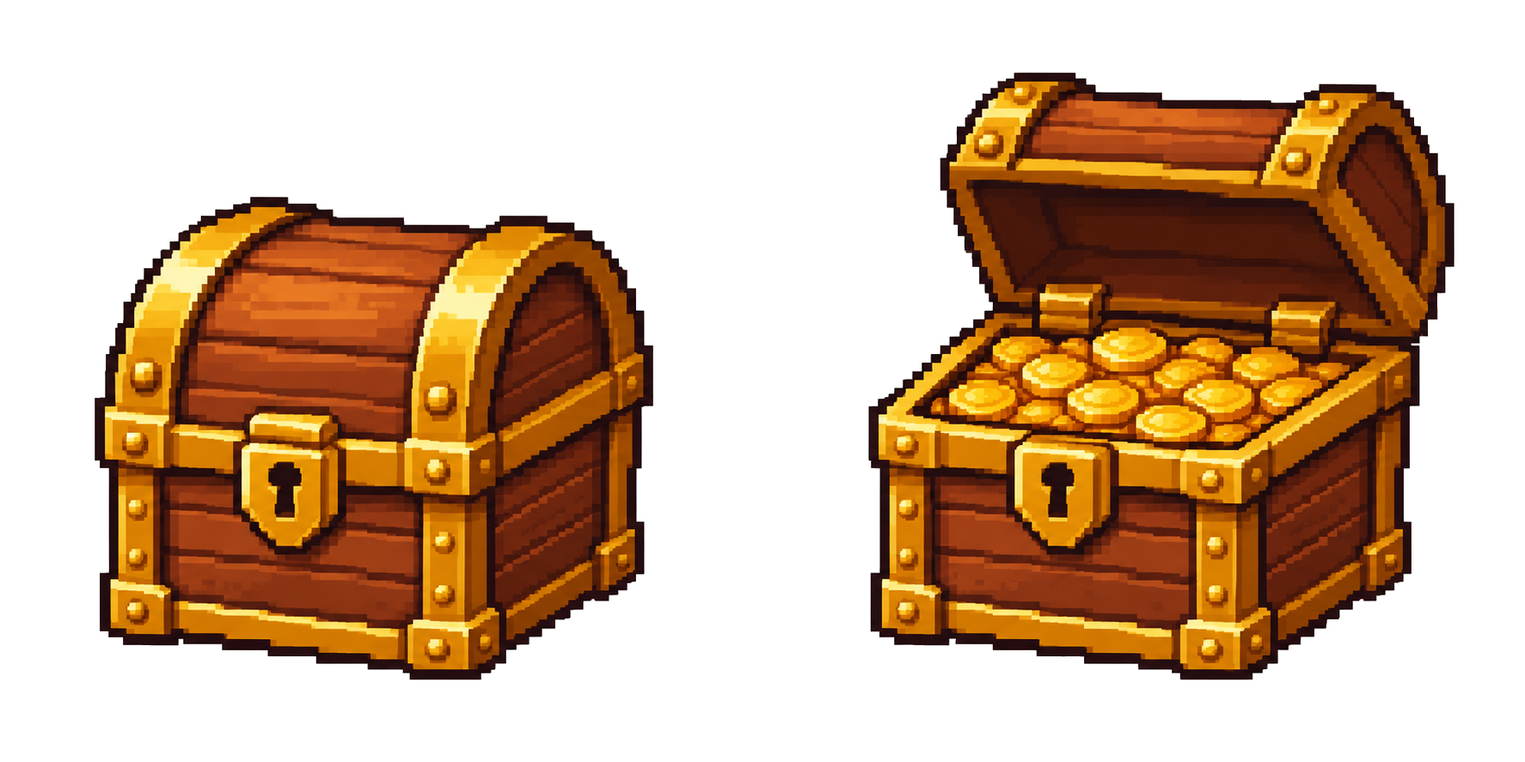
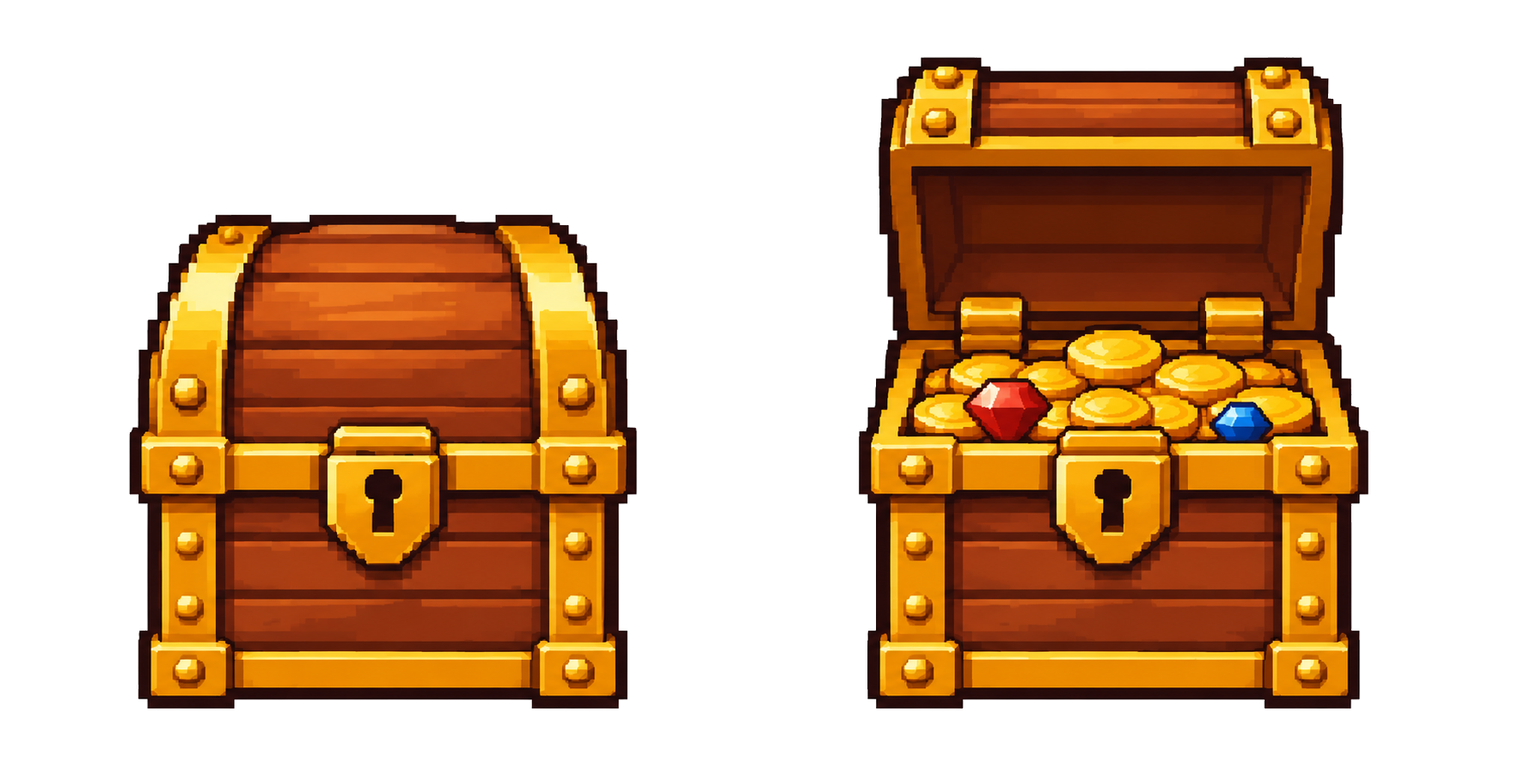
口袋地城：寶箱改為正面視角（關閉與打開）

diff --git a/games/pocketdungeon/src/js/pd/propSprites.js b/games/pocketdungeon/src/js/pd/propSprites.js
@@ -12,4 +12,4 @@ import { unpack } from './spritePack.js';
  */
 export const PROP_SPRITES = {};
 
-unpack(PROP_SPRITES, {"barrel":{"palette":{"a":"#562215","b":"#373641","c":"#753116","d":"#4b4b57","e":"#5a5c69","f":"#9c4a1b","g":"#696a76","h":"#b95e23","i":"#d1752c","j":"#93949e","k":"#e38937","l":"#a7a8ae","m":"#f8a244","n":"#b7b7bc","o":"#1a1020"},"w":22,"h":28,"foot":0,"gray":false,"frames":[{"x":0,"y":0,"$r":[304,0,21,28]}]},"crates":{"palette":{"a":"#362a26","b":"#522417","c":"#3a393c","d":"#6c301a","e":"#4b494a","f":"#95451e","g":"#646365","h":"#ad5522","i":"#c16527","j":"#8c8c8c","k":"#d98033","l":"#eb9a40","m":"#c8c5be","n":"#fccf6a","o":"#1a1020"},"w":28,"h":36,"foot":0,"gray":false,"frames":[{"x":1,"y":0,"$r":[142,0,27,36]}]},"boulder":{"palette":{"a":"#575757","b":"#686868","c":"#757575","d":"#a8a8a8","e":"#b6b6b6","f":"#c4c4c4","g":"#d6d6d6","h":"#e7e7e7","i":"#f2f2f2","o":"#1a1020"},"w":30,"h":26,"foot":0,"gray":true,"frames":[{"x":0,"y":0,"$r":[354,0,29,26]}]},"statue":{"palette":{"a":"#8d8d8d","b":"#989898","c":"#a0a0a0","d":"#b0b0b0","e":"#bdbdbd","f":"#cccccc","g":"#d7d7d7","h":"#e1e1e1","i":"#eaeaea","j":"#f1f1f1","o":"#1a1020"},"w":18,"h":46,"foot":0,"gray":true,"frames":[{"x":0,"y":0,"$r":[97,0,15,46]}]},"trophy":{"palette":{"a":"#591e13","b":"#363e51","c":"#8e2719","d":"#bb211e","e":"#aa641c","f":"#717382","g":"#fa4139","h":"#a66c54","i":"#ce8c20","j":"#9898a4","k":"#edb12f","l":"#b5b4be","m":"#fce27d","n":"#feefa4","p":"#eeeeed","o":"#1a1020"},"w":36,"h":30,"foot":0,"gray":false,"frames":[{"x":1,"y":0,"$r":[236,0,34,30]}]},"skulls":{"palette":{"a":"#3a2d28","b":"#483832","c":"#59463e","d":"#634e46","e":"#745d53","f":"#856d61","g":"#977d6e","h":"#9f8575","i":"#ab9382","j":"#b89f8b","k":"#c9af9a","l":"#d6bca7","m":"#dec7b1","n":"#e5d1bb","p":"#f0dec8","o":"#1a1020"},"w":24,"h":22,"foot":0,"gray":false,"frames":[{"x":0,"y":0,"$r":[437,0,23,22]}]},"banner":{"palette":{"a":"#845311","b":"#ab6e13","c":"#7a7a7a","d":"#c99120","e":"#a19d9b","f":"#f1b532","g":"#c1b9b4","h":"#e2dacf","i":"#fce183","o":"#1a1020"},"w":26,"h":22,"foot":0,"gray":true,"frames":[{"x":1,"y":0,"$r":[461,0,24,22]}]},"torch":{"palette":{"a":"#5a2c1c","b":"#3f3c42","c":"#583437","d":"#4d4a50","e":"#7f4326","f":"#57545a","g":"#8a4e2b","h":"#6e6c70","i":"#b16b3a","j":"#848183","k":"#989698","l":"#b1b0b0","o":"#1a1020"},"w":14,"h":20,"foot":0,"gray":false,"frames":[{"x":0,"y":0,"$r":[576,0,13,20]}]},"bone":{"palette":{"a":"#83685e","b":"#856a60","c":"#896e62","d":"#a48a79","e":"#ae9480","f":"#b39984","g":"#b49b86","h":"#e4cdaf","i":"#e5ceb0","j":"#f4e1c3","k":"#fdeecf","l":"#fef0d2","o":"#1a1020"},"w":20,"h":8,"foot":0,"gray":false,"frames":[{"x":1,"y":1,"$r":[727,0,19,7]}]},"rubble":{"palette":{"a":"#919191","b":"#969696","c":"#a0a0a0","d":"#b0b0b0","e":"#bbbbbb","f":"#cbcbcb","g":"#d3d3d3","h":"#dddddd","i":"#eaeaea","j":"#f3f3f3","o":"#1a1020"},"w":16,"h":12,"foot":0,"gray":true,"frames":[{"x":1,"y":0,"$r":[712,0,14,12]}]},"stairs":{"palette":{"a":"#8d8d8d","b":"#9c9c9c","c":"#a8a8a8","d":"#b5b5b5","e":"#c0c0c0","f":"#cacaca","g":"#d7d7d7","h":"#e1e1e1","i":"#ededed","j":"#f5f5f5","o":"#1a1020"},"w":32,"h":32,"foot":0,"gray":true,"frames":[{"x":0,"y":0,"$r":[170,0,32,32]}]},"spikes":{"palette":{"a":"#313130","b":"#444443","c":"#4e4e4e","d":"#585857","e":"#616161","f":"#6f6f6f","g":"#808080","h":"#8e8e8e","i":"#9d9d9d","j":"#a8a8a8","k":"#bababa","l":"#cecdce","m":"#dcdcdc","n":"#eaeaea","o":"#1a1020"},"w":34,"h":30,"foot":1,"gray":false,"frames":[{"x":1,"y":5,"$r":[404,0,32,24]},{"x":1,"y":0,"$r":[271,0,32,29]}]},"chest":{"palette":{"a":"#5c200c","b":"#85350b","c":"#9c430b","d":"#bb4f1a","e":"#86663e","f":"#b65e02","g":"#da6b1f","h":"#d57b02","i":"#e48f06","j":"#f4a90b","k":"#dfad3e","l":"#fabf20","m":"#fad141","n":"#fbe777","p":"#fdf4aa","o":"#1a1020"},"w":30,"h":30,"foot":1,"gray":false,"frames":[{"x":2,"y":7,"$r":[486,0,25,22]},{"x":3,"y":1,"$r":[326,0,27,28]}]},"weaponRack":{"palette":{"a":"#56270f","b":"#444047","c":"#743210","d":"#8a3e14","e":"#5a5a63","f":"#a44d17","g":"#717179","h":"#bf5e1b","i":"#8c8b93","j":"#a2838a","k":"#e07b29","l":"#f38f35","m":"#fb9f45","n":"#b2b1b5","p":"#c4c4c7","o":"#1a1020"},"w":20,"h":26,"foot":0,"gray":false,"frames":[{"x":1,"y":0,"$r":[384,0,19,26]}]},"wallShield":{"palette":{"a":"#5f1e18","b":"#3c3c44","c":"#892d1f","d":"#5b5a62","e":"#ac422c","f":"#797377","g":"#d26648","h":"#e67b5a","i":"#a19790","j":"#bd956c","k":"#fba07c","l":"#c6b5aa","m":"#dcb484","n":"#fde3ba","p":"#fef2d5","o":"#1a1020"},"w":20,"h":18,"foot":0,"gray":false,"frames":[{"x":1,"y":0,"$r":[608,0,18,18]}]},"chains":{"palette":{"a":"#35353b","b":"#3e3e43","c":"#4d4c50","d":"#575559","e":"#636163","f":"#767070","g":"#92827a","h":"#9f9591","i":"#b0a49d","j":"#b6ada9","k":"#d1b9a8","l":"#c8bdb7","m":"#e5c8af","n":"#e2d1c4","o":"#1a1020"},"w":18,"h":18,"foot":0,"gray":false,"frames":[{"x":2,"y":0,"$r":[627,0,15,18]}]},"cobweb":{"palette":{"a":"#5d5d5d","b":"#767676","c":"#7f7f7f","d":"#949494","e":"#ababab","f":"#b2b2b2","g":"#d9d9d9","h":"#dfdfdf","i":"#fdfdfd","o":"#1a1020"},"w":18,"h":16,"foot":0,"gray":true,"frames":[{"x":1,"y":0,"$r":[662,0,16,16]}]},"brazier":{"palette":{"a":"#362b34","b":"#77161a","c":"#b50509","d":"#4a3e48","e":"#603741","f":"#ad2b23","g":"#c7291f","h":"#65575d","i":"#79676d","j":"#fc4515","k":"#987f82","l":"#b0948d","m":"#deb29c","n":"#f8c99f","o":"#1a1020"},"w":18,"h":20,"foot":0,"gray":false,"frames":[{"x":0,"y":0,"$r":[590,0,17,20]}]},"urns":{"palette":{"a":"#652415","b":"#7c2f18","c":"#893419","d":"#9b3f1c","e":"#b74f20","f":"#b45f28","g":"#c55f24","h":"#dd742c","i":"#e48733","j":"#ed943e","k":"#f5a64b","l":"#fab358","m":"#fcc268","n":"#fce294","o":"#1a1020"},"w":20,"h":18,"foot":0,"gray":false,"frames":[{"x":1,"y":0,"$r":[643,0,18,18]}]},"sacks":{"palette":{"a":"#562d16","b":"#623217","c":"#743b18","d":"#7f4823","e":"#964d1b","f":"#975829","g":"#a6591e","h":"#af6c32","i":"#cd8940","j":"#d79548","k":"#df9c4c","l":"#fbc368","m":"#fccf7d","n":"#fdd892","o":"#1a1020"},"w":18,"h":16,"foot":0,"gray":false,"frames":[{"x":0,"y":0,"$r":[679,0,17,16]}]},"rug":{"palette":{"a":"#850613","b":"#a40614","c":"#902a05","d":"#c30d18","e":"#b84c06","f":"#ce6107","g":"#ee8d0e","h":"#dea47c","i":"#f9a823","j":"#f9a35d","k":"#fbc341","l":"#fddca4","m":"#fded73","n":"#fde9b9","o":"#1a1020"},"w":44,"h":22,"foot":0,"gray":false,"frames":[{"x":0,"y":0,"$r":[512,0,44,22]}]},"pillarStump":{"palette":{"a":"#3b3b3b","b":"#4b4b4b","c":"#616161","d":"#7a7a7a","e":"#9c9c9c","f":"#aeaeae","g":"#d5d5d5","h":"#e1e1e1","i":"#f1f1f1","o":"#1a1020"},"w":20,"h":22,"foot":0,"gray":true,"frames":[{"x":1,"y":0,"$r":[557,0,18,22]}]},"candles":{"palette":{"a":"#58250f","b":"#693c1d","c":"#b1773f","d":"#cc7c12","e":"#c28648","f":"#e28f13","g":"#d89955","h":"#fba51d","i":"#e8ab62","j":"#fcce83","k":"#fedf9a","l":"#feea72","m":"#fcecb6","n":"#fcf5cf","o":"#1a1020"},"w":16,"h":18,"foot":1,"gray":false,"frames":[{"x":1,"y":1,"$r":[697,0,14,16]}]},"archway":{"palette":{"a":"#383838","b":"#4f4f4e","c":"#696868","d":"#7f7e7e","e":"#939292","f":"#a7a6a7","g":"#bfbebf","h":"#d5d5d5","i":"#f1f1f2","o":"#1a1020"},"w":98,"h":100,"foot":0,"gray":true,"frames":[{"x":1,"y":1,"$r":[0,0,96,99]}]},"steps":{"palette":{"a":"#333333","b":"#3d3d3d","c":"#4e4e4e","d":"#636363","e":"#727272","f":"#8b8b8b","g":"#a4a4a4","h":"#b2b2b2","i":"#c9c9c9","o":"#1a1020"},"w":32,"h":32,"foot":0,"gray":true,"frames":[{"x":0,"y":0,"$r":[203,0,32,32]}]},"ironGate":{"palette":{"a":"#303030","b":"#404040","c":"#585858","d":"#696969","e":"#848484","f":"#909090","g":"#b1b1b1","h":"#bebebe","o":"#1a1020"},"w":28,"h":40,"foot":0,"gray":true,"frames":[{"x":0,"y":1,"$r":[113,0,28,39]}]}}, new URL('./propSprites.png', import.meta.url));
+unpack(PROP_SPRITES, {"barrel":{"palette":{"a":"#562215","b":"#373641","c":"#753116","d":"#4b4b57","e":"#5a5c69","f":"#9c4a1b","g":"#696a76","h":"#b95e23","i":"#d1752c","j":"#93949e","k":"#e38937","l":"#a7a8ae","m":"#f8a244","n":"#b7b7bc","o":"#1a1020"},"w":22,"h":28,"foot":0,"gray":false,"frames":[{"x":0,"y":0,"$r":[328,0,21,28]}]},"crates":{"palette":{"a":"#362a26","b":"#522417","c":"#3a393c","d":"#6c301a","e":"#4b494a","f":"#95451e","g":"#646365","h":"#ad5522","i":"#c16527","j":"#8c8c8c","k":"#d98033","l":"#eb9a40","m":"#c8c5be","n":"#fccf6a","o":"#1a1020"},"w":28,"h":36,"foot":0,"gray":false,"frames":[{"x":1,"y":0,"$r":[142,0,27,36]}]},"boulder":{"palette":{"a":"#575757","b":"#686868","c":"#757575","d":"#a8a8a8","e":"#b6b6b6","f":"#c4c4c4","g":"#d6d6d6","h":"#e7e7e7","i":"#f2f2f2","o":"#1a1020"},"w":30,"h":26,"foot":0,"gray":true,"frames":[{"x":0,"y":0,"$r":[350,0,29,26]}]},"statue":{"palette":{"a":"#8d8d8d","b":"#989898","c":"#a0a0a0","d":"#b0b0b0","e":"#bdbdbd","f":"#cccccc","g":"#d7d7d7","h":"#e1e1e1","i":"#eaeaea","j":"#f1f1f1","o":"#1a1020"},"w":18,"h":46,"foot":0,"gray":true,"frames":[{"x":0,"y":0,"$r":[97,0,15,46]}]},"trophy":{"palette":{"a":"#591e13","b":"#363e51","c":"#8e2719","d":"#bb211e","e":"#aa641c","f":"#717382","g":"#fa4139","h":"#a66c54","i":"#ce8c20","j":"#9898a4","k":"#edb12f","l":"#b5b4be","m":"#fce27d","n":"#feefa4","p":"#eeeeed","o":"#1a1020"},"w":36,"h":30,"foot":0,"gray":false,"frames":[{"x":1,"y":0,"$r":[236,0,34,30]}]},"skulls":{"palette":{"a":"#3a2d28","b":"#483832","c":"#59463e","d":"#634e46","e":"#745d53","f":"#856d61","g":"#977d6e","h":"#9f8575","i":"#ab9382","j":"#b89f8b","k":"#c9af9a","l":"#d6bca7","m":"#dec7b1","n":"#e5d1bb","p":"#f0dec8","o":"#1a1020"},"w":24,"h":22,"foot":0,"gray":false,"frames":[{"x":0,"y":0,"$r":[433,0,23,22]}]},"banner":{"palette":{"a":"#845311","b":"#ab6e13","c":"#7a7a7a","d":"#c99120","e":"#a19d9b","f":"#f1b532","g":"#c1b9b4","h":"#e2dacf","i":"#fce183","o":"#1a1020"},"w":26,"h":22,"foot":0,"gray":true,"frames":[{"x":1,"y":0,"$r":[457,0,24,22]}]},"torch":{"palette":{"a":"#5a2c1c","b":"#3f3c42","c":"#583437","d":"#4d4a50","e":"#7f4326","f":"#57545a","g":"#8a4e2b","h":"#6e6c70","i":"#b16b3a","j":"#848183","k":"#989698","l":"#b1b0b0","o":"#1a1020"},"w":14,"h":20,"foot":0,"gray":false,"frames":[{"x":0,"y":0,"$r":[570,0,13,20]}]},"bone":{"palette":{"a":"#83685e","b":"#856a60","c":"#896e62","d":"#a48a79","e":"#ae9480","f":"#b39984","g":"#b49b86","h":"#e4cdaf","i":"#e5ceb0","j":"#f4e1c3","k":"#fdeecf","l":"#fef0d2","o":"#1a1020"},"w":20,"h":8,"foot":0,"gray":false,"frames":[{"x":1,"y":1,"$r":[721,0,19,7]}]},"rubble":{"palette":{"a":"#919191","b":"#969696","c":"#a0a0a0","d":"#b0b0b0","e":"#bbbbbb","f":"#cbcbcb","g":"#d3d3d3","h":"#dddddd","i":"#eaeaea","j":"#f3f3f3","o":"#1a1020"},"w":16,"h":12,"foot":0,"gray":true,"frames":[{"x":1,"y":0,"$r":[706,0,14,12]}]},"stairs":{"palette":{"a":"#8d8d8d","b":"#9c9c9c","c":"#a8a8a8","d":"#b5b5b5","e":"#c0c0c0","f":"#cacaca","g":"#d7d7d7","h":"#e1e1e1","i":"#ededed","j":"#f5f5f5","o":"#1a1020"},"w":32,"h":32,"foot":0,"gray":true,"frames":[{"x":0,"y":0,"$r":[170,0,32,32]}]},"spikes":{"palette":{"a":"#313130","b":"#444443","c":"#4e4e4e","d":"#585857","e":"#616161","f":"#6f6f6f","g":"#808080","h":"#8e8e8e","i":"#9d9d9d","j":"#a8a8a8","k":"#bababa","l":"#cecdce","m":"#dcdcdc","n":"#eaeaea","o":"#1a1020"},"w":34,"h":30,"foot":1,"gray":false,"frames":[{"x":1,"y":5,"$r":[400,0,32,24]},{"x":1,"y":0,"$r":[271,0,32,29]}]},"chest":{"palette":{"a":"#043491","b":"#631f09","c":"#b11709","d":"#0253c6","e":"#99370f","f":"#b9510a","g":"#25926c","h":"#a1741b","i":"#f64b28","j":"#d96717","k":"#ec8e02","l":"#f89876","m":"#fbc520","n":"#fde162","p":"#fdf19c","o":"#1a1020"},"w":26,"h":30,"foot":0,"gray":false,"frames":[{"x":2,"y":8,"$r":[482,0,23,22]},{"x":1,"y":1,"$r":[304,0,23,29]}]},"weaponRack":{"palette":{"a":"#56270f","b":"#444047","c":"#743210","d":"#8a3e14","e":"#5a5a63","f":"#a44d17","g":"#717179","h":"#bf5e1b","i":"#8c8b93","j":"#a2838a","k":"#e07b29","l":"#f38f35","m":"#fb9f45","n":"#b2b1b5","p":"#c4c4c7","o":"#1a1020"},"w":20,"h":26,"foot":0,"gray":false,"frames":[{"x":1,"y":0,"$r":[380,0,19,26]}]},"wallShield":{"palette":{"a":"#5f1e18","b":"#3c3c44","c":"#892d1f","d":"#5b5a62","e":"#ac422c","f":"#797377","g":"#d26648","h":"#e67b5a","i":"#a19790","j":"#bd956c","k":"#fba07c","l":"#c6b5aa","m":"#dcb484","n":"#fde3ba","p":"#fef2d5","o":"#1a1020"},"w":20,"h":18,"foot":0,"gray":false,"frames":[{"x":1,"y":0,"$r":[602,0,18,18]}]},"chains":{"palette":{"a":"#35353b","b":"#3e3e43","c":"#4d4c50","d":"#575559","e":"#636163","f":"#767070","g":"#92827a","h":"#9f9591","i":"#b0a49d","j":"#b6ada9","k":"#d1b9a8","l":"#c8bdb7","m":"#e5c8af","n":"#e2d1c4","o":"#1a1020"},"w":18,"h":18,"foot":0,"gray":false,"frames":[{"x":2,"y":0,"$r":[621,0,15,18]}]},"cobweb":{"palette":{"a":"#5d5d5d","b":"#767676","c":"#7f7f7f","d":"#949494","e":"#ababab","f":"#b2b2b2","g":"#d9d9d9","h":"#dfdfdf","i":"#fdfdfd","o":"#1a1020"},"w":18,"h":16,"foot":0,"gray":true,"frames":[{"x":1,"y":0,"$r":[656,0,16,16]}]},"brazier":{"palette":{"a":"#362b34","b":"#77161a","c":"#b50509","d":"#4a3e48","e":"#603741","f":"#ad2b23","g":"#c7291f","h":"#65575d","i":"#79676d","j":"#fc4515","k":"#987f82","l":"#b0948d","m":"#deb29c","n":"#f8c99f","o":"#1a1020"},"w":18,"h":20,"foot":0,"gray":false,"frames":[{"x":0,"y":0,"$r":[584,0,17,20]}]},"urns":{"palette":{"a":"#652415","b":"#7c2f18","c":"#893419","d":"#9b3f1c","e":"#b74f20","f":"#b45f28","g":"#c55f24","h":"#dd742c","i":"#e48733","j":"#ed943e","k":"#f5a64b","l":"#fab358","m":"#fcc268","n":"#fce294","o":"#1a1020"},"w":20,"h":18,"foot":0,"gray":false,"frames":[{"x":1,"y":0,"$r":[637,0,18,18]}]},"sacks":{"palette":{"a":"#562d16","b":"#623217","c":"#743b18","d":"#7f4823","e":"#964d1b","f":"#975829","g":"#a6591e","h":"#af6c32","i":"#cd8940","j":"#d79548","k":"#df9c4c","l":"#fbc368","m":"#fccf7d","n":"#fdd892","o":"#1a1020"},"w":18,"h":16,"foot":0,"gray":false,"frames":[{"x":0,"y":0,"$r":[673,0,17,16]}]},"rug":{"palette":{"a":"#850613","b":"#a40614","c":"#902a05","d":"#c30d18","e":"#b84c06","f":"#ce6107","g":"#ee8d0e","h":"#dea47c","i":"#f9a823","j":"#f9a35d","k":"#fbc341","l":"#fddca4","m":"#fded73","n":"#fde9b9","o":"#1a1020"},"w":44,"h":22,"foot":0,"gray":false,"frames":[{"x":0,"y":0,"$r":[506,0,44,22]}]},"pillarStump":{"palette":{"a":"#3b3b3b","b":"#4b4b4b","c":"#616161","d":"#7a7a7a","e":"#9c9c9c","f":"#aeaeae","g":"#d5d5d5","h":"#e1e1e1","i":"#f1f1f1","o":"#1a1020"},"w":20,"h":22,"foot":0,"gray":true,"frames":[{"x":1,"y":0,"$r":[551,0,18,22]}]},"candles":{"palette":{"a":"#58250f","b":"#693c1d","c":"#b1773f","d":"#cc7c12","e":"#c28648","f":"#e28f13","g":"#d89955","h":"#fba51d","i":"#e8ab62","j":"#fcce83","k":"#fedf9a","l":"#feea72","m":"#fcecb6","n":"#fcf5cf","o":"#1a1020"},"w":16,"h":18,"foot":1,"gray":false,"frames":[{"x":1,"y":1,"$r":[691,0,14,16]}]},"archway":{"palette":{"a":"#383838","b":"#4f4f4e","c":"#696868","d":"#7f7e7e","e":"#939292","f":"#a7a6a7","g":"#bfbebf","h":"#d5d5d5","i":"#f1f1f2","o":"#1a1020"},"w":98,"h":100,"foot":0,"gray":true,"frames":[{"x":1,"y":1,"$r":[0,0,96,99]}]},"steps":{"palette":{"a":"#333333","b":"#3d3d3d","c":"#4e4e4e","d":"#636363","e":"#727272","f":"#8b8b8b","g":"#a4a4a4","h":"#b2b2b2","i":"#c9c9c9","o":"#1a1020"},"w":32,"h":32,"foot":0,"gray":true,"frames":[{"x":0,"y":0,"$r":[203,0,32,32]}]},"ironGate":{"palette":{"a":"#303030","b":"#404040","c":"#585858","d":"#696969","e":"#848484","f":"#909090","g":"#b1b1b1","h":"#bebebe","o":"#1a1020"},"w":28,"h":40,"foot":0,"gray":true,"frames":[{"x":0,"y":1,"$r":[113,0,28,39]}]}}, new URL('./propSprites.png', import.meta.url));

diff --git a/games/pocketdungeon/spec.md b/games/pocketdungeon/spec.md
@@ -524,7 +524,7 @@
 ## 畫面與外觀
 
 - **圖資料格式**：所有由設計圖轉換的圖（角色、Boss、怪物、裝飾物、道具、地城圖塊、家園家具／圖示／作物／地板牆面）的像素存在與模組同名的 PNG 圖集（每像素為該圖調色盤的編號，8 位元灰階、無損），模組只保留調色盤、大小與圖集位置；`src/js/pd/spritePack.js` 在載入時還原成字元陣列（瀏覽器中以 DecompressionStream 自行解碼 PNG、不經過瀏覽器的影像解碼與色彩管理，app 啟動前等待解碼完成；Node 中同步解碼），還原結果與原本完全相同。
-- **復古像素風**：以 16 × 16 像素的圖塊繪製，地圖以 2 倍密度預先畫好（每層一次）：石磚有圓角、雙層明暗、細小斑點與少量細裂痕，牆面磚塊與牆頂石板有半階亮面，草原為不規則的草色斑塊、細草葉與四瓣小花，並依區域加上點綴（遺跡與沉沒神殿的石縫苔蘚與垂苔、冰晶要塞的冰霜與冰柱、熔岩礦坑／龍之峽谷／魔王城／深淵的發光縫、黃沙神殿的積沙、天空之城的大理石紋、機械工坊的鉚釘、沉沒神殿的積水反光），最後整張加上極輕微的石材顆粒。地圖裝飾物（木桶、木箱、大石、石像、戰利品、頭骨堆、掛旗、火把座、地上的骨頭與碎石、樓梯、地刺、寶箱）使用由 design/props/ 的原創設計圖轉換的高密度像素圖（`src/js/pd/propSprites.js`，密度 2）：大石、石像、碎石與樓梯為灰階圖，依區域的石柱色上色；掛旗布面染成區域的點綴色；地刺是凹進地面的鐵板（4 個孔位），升起時在孔位上畫 4 根伸出格子約半格的細長銀色尖刺；寶箱有關閉／打開兩格；火把的火焰仍每幀動態繪製在火把座上方。牆面另外會掛武器架、圓盾或鐵鏈；房間角落依位置放蜘蛛網（上方兩角）、火盆、陶罐、麻布袋、蠟燭或斷柱，約三分之一的大房間中央鋪地毯（只是裝飾，不影響行走）；火盆有動態火焰並照亮周圍（沉沒神殿不放火盆）。房間出入口（走廊寬 2 格，門口是牆上 2 格寬的缺口）：走廊從房間上方的牆進來的門口，畫往上的石階與嵌在牆裡的 3 格寬石拱門（門洞 2 格、兩側是打開的木門；門洞正上方的拱頂另外每幀畫在角色上方，角色從拱門下穿過，兩側石柱不會蓋住旁邊的角色；門口上方至少有 2 格走廊時才放拱門，兩個房間只隔一道薄牆時只畫石階）；從房間下方的牆出去的門口，畫往下的石階（越往下越暗）；石階拼成 2 格寬的一整片（只有最外側有石邊），以石階表現房間與走廊的高低落差（只是畫面，不影響行走）。長牆上偶爾嵌一扇封閉的鐵柵門（裝飾）。火光：牆面火把依石柱排列——每段連續牆面的石柱（兩端與長牆中間每 5 格一根）之間，火把固定放在相鄰兩根石柱的正中央（間距不到 2.5 格的不放），整面牆間距一致；牆上的掛旗、掛飾與大型擺設避開火把 1.25 格內；牆面兩端轉角石柱約一半的柱頂放一盆火；北側拱門兩旁的牆面掛火把；南側出口石階兩旁的牆緣各立一盆火（天空之城與沉沒神殿不放柱頂與石階旁的火）；這些火都會閃爍並照亮周圍。每個房間另外沿牆放 2～4 個小擺設（蠟燭、陶罐、麻布袋、頭骨堆、木桶），避開角落與門口。拱門、石階與鐵柵門為灰階圖，依區域石色上色。缺圖時沿用手寫的像素圖。配合約 1.4 格高的角色，裝飾物與寶箱以 1.4 倍顯示（火把座與蜘蛛網 1.3 倍、地毯 1.15 倍，對齊格子的樓梯、石階、拱門、地刺與鐵柵門維持 1 倍，底邊位置不變），地上掉落物也以 1.4 倍顯示。地板、牆面段、牆頂與石柱使用由 design/dungeon/ 的原創設計圖轉換的圖塊（`src/js/pd/dungeonTiles.js`，密度 2）：每個區域 4 種地板、3 種牆面段、2 種牆頂依位置固定挑選（變化之間的平均色對齊第 1 種，避免棋盤格），牆面往上加高時畫整段、否則只畫石唇與下半段，石柱的柱頭固定、柱身依牆高從下方截取；牆頂接到地板的外框照舊以程式繪製，牆頂改用 design/dungeon/rim-*.png 的牆緣圖塊（從上方看的厚磚緣，平均色對齊同區域的牆面），牆頂與牆緣另外壓暗 30%、降低彩度，與可行走的地板明顯區分；南側外牆（上方是地板、下方是地圖外）在牆緣下方補一段 7 像素的矮牆正面，牆看起來有厚度。地板使用第二版設計圖（design/dungeon/floors-*.png：大石板、細淡灰縫、平滑石面、低對比）。地板圖塊另外去掉孤立的單點雜色、把灰縫往石面平均色靠攏 60%，並疊上一層跨越數格的平滑明暗起伏（每 3 格一個隨機明暗點內插放大），地面看起來連續、不再一格一格。翠綠草原的地面維持程式繪製的草地（跨格相連的草色斑塊），樹籬牆使用圖塊。沒有圖塊時沿用程式繪製的細節石磚。地城掉落物與介面的道具圖示使用 design/items/ 轉換的 2 倍密度圖（`src/js/pd/itemSprites.js`），入場卷以灰階圖依等級上色，家園材料掉落物沿用家園圖示。一般怪物使用高密度的 4 格動作圖（由 design/monsters/ 的原創設計圖轉換，存在 `src/js/pd/monsterSprites.js`，顯示密度與角色相同，腳對齊影子中心）：待機圖高度依體型分為小 28、中 34（與角色等高）、大 40、巨 46（雪怪）圖像素；4 格為待機 A、待機 B（平常每 0.4 秒交替）、蓄力（預警、衝刺蓄力、瞄準、施法、鑽地前）、出招（衝刺、俯衝中，或離開蓄力、射出投射物後 0.3 秒），面向玩家時左右翻轉；菁英、分裂小怪的縮放與半透明怪物的透明度照舊。沒有動作圖的怪物沿用手寫像素圖，在遊戲中以程式精緻化成 2 倍密度（Scale2x 補平斜邊、輪廓外框變細為 1 像素、左上提亮右下壓暗的光影）。Boss 也是高密度像素圖（由 design/bosses/ 的原創設計圖轉換，存在 `src/js/pd/bossSprites.js`，約 2.5 格高，顯示密度與角色相同，腳對齊影子中心）：4 格動作為待機 A、待機 B（平常每 0.5 秒交替）、蓄力（預警、瞄準、施法、回復中）、出招（離開蓄力或射出投射物後 0.3 秒），面向玩家時左右翻轉。角色為高密度的像素圖（角色本體約 34 格高，地城中約以 1.45 倍密度顯示、約 1.4 格高（怪物與 Boss 同比例），實際密度依畫面放大倍率取能讓每個圖像素佔整數個螢幕像素的值，例如放大 6 倍時為 1.5、7 倍時為 1.4；只影響畫面，碰撞範圍不變；家園中以 2 倍密度顯示；由原創的 4 方向攻擊動作設計圖轉換而來，存在 `src/js/pd/heroSprites.js`）。每個職業有正面（朝下）、背面（朝上）、側面（面向右，面向左時翻轉）三個方向，各 6 格（騎士 8 格）攻擊動畫，第 1 格同時是該方向的待機圖；走路為 4 格循環（每秒 8 格），參考走路動作圖由待機圖產生、沿用角色本身的造型與配色：正面與背面為左腳抬起 → 身體上浮 1 格 → 右腳抬起 → 身體上浮，側面為前後腳跨步 → 收腳上浮 → 前後交換 → 收腳上浮。介面頭像使用正面待機圖。整數倍放大且不平滑（`image-rendering: pixelated`），畫面內部解析度固定，依螢幕大小整數縮放。
+- **復古像素風**：以 16 × 16 像素的圖塊繪製，地圖以 2 倍密度預先畫好（每層一次）：石磚有圓角、雙層明暗、細小斑點與少量細裂痕，牆面磚塊與牆頂石板有半階亮面，草原為不規則的草色斑塊、細草葉與四瓣小花，並依區域加上點綴（遺跡與沉沒神殿的石縫苔蘚與垂苔、冰晶要塞的冰霜與冰柱、熔岩礦坑／龍之峽谷／魔王城／深淵的發光縫、黃沙神殿的積沙、天空之城的大理石紋、機械工坊的鉚釘、沉沒神殿的積水反光），最後整張加上極輕微的石材顆粒。地圖裝飾物（木桶、木箱、大石、石像、戰利品、頭骨堆、掛旗、火把座、地上的骨頭與碎石、樓梯、地刺、寶箱）使用由 design/props/ 的原創設計圖轉換的高密度像素圖（`src/js/pd/propSprites.js`，密度 2）：大石、石像、碎石與樓梯為灰階圖，依區域的石柱色上色；掛旗布面染成區域的點綴色；地刺是凹進地面的鐵板（4 個孔位），升起時在孔位上畫 4 根伸出格子約半格的細長銀色尖刺；寶箱有關閉／打開兩格（正面視角、左右對稱，打開時箱蓋往正後方掀開）；火把的火焰仍每幀動態繪製在火把座上方。牆面另外會掛武器架、圓盾或鐵鏈；房間角落依位置放蜘蛛網（上方兩角）、火盆、陶罐、麻布袋、蠟燭或斷柱，約三分之一的大房間中央鋪地毯（只是裝飾，不影響行走）；火盆有動態火焰並照亮周圍（沉沒神殿不放火盆）。房間出入口（走廊寬 2 格，門口是牆上 2 格寬的缺口）：走廊從房間上方的牆進來的門口，畫往上的石階與嵌在牆裡的 3 格寬石拱門（門洞 2 格、兩側是打開的木門；門洞正上方的拱頂另外每幀畫在角色上方，角色從拱門下穿過，兩側石柱不會蓋住旁邊的角色；門口上方至少有 2 格走廊時才放拱門，兩個房間只隔一道薄牆時只畫石階）；從房間下方的牆出去的門口，畫往下的石階（越往下越暗）；石階拼成 2 格寬的一整片（只有最外側有石邊），以石階表現房間與走廊的高低落差（只是畫面，不影響行走）。長牆上偶爾嵌一扇封閉的鐵柵門（裝飾）。火光：牆面火把依石柱排列——每段連續牆面的石柱（兩端與長牆中間每 5 格一根）之間，火把固定放在相鄰兩根石柱的正中央（間距不到 2.5 格的不放），整面牆間距一致；牆上的掛旗、掛飾與大型擺設避開火把 1.25 格內；牆面兩端轉角石柱約一半的柱頂放一盆火；北側拱門兩旁的牆面掛火把；南側出口石階兩旁的牆緣各立一盆火（天空之城與沉沒神殿不放柱頂與石階旁的火）；這些火都會閃爍並照亮周圍。每個房間另外沿牆放 2～4 個小擺設（蠟燭、陶罐、麻布袋、頭骨堆、木桶），避開角落與門口。拱門、石階與鐵柵門為灰階圖，依區域石色上色。缺圖時沿用手寫的像素圖。配合約 1.4 格高的角色，裝飾物與寶箱以 1.4 倍顯示（火把座與蜘蛛網 1.3 倍、地毯 1.15 倍，對齊格子的樓梯、石階、拱門、地刺與鐵柵門維持 1 倍，底邊位置不變），地上掉落物也以 1.4 倍顯示。地板、牆面段、牆頂與石柱使用由 design/dungeon/ 的原創設計圖轉換的圖塊（`src/js/pd/dungeonTiles.js`，密度 2）：每個區域 4 種地板、3 種牆面段、2 種牆頂依位置固定挑選（變化之間的平均色對齊第 1 種，避免棋盤格），牆面往上加高時畫整段、否則只畫石唇與下半段，石柱的柱頭固定、柱身依牆高從下方截取；牆頂接到地板的外框照舊以程式繪製，牆頂改用 design/dungeon/rim-*.png 的牆緣圖塊（從上方看的厚磚緣，平均色對齊同區域的牆面），牆頂與牆緣另外壓暗 30%、降低彩度，與可行走的地板明顯區分；南側外牆（上方是地板、下方是地圖外）在牆緣下方補一段 7 像素的矮牆正面，牆看起來有厚度。地板使用第二版設計圖（design/dungeon/floors-*.png：大石板、細淡灰縫、平滑石面、低對比）。地板圖塊另外去掉孤立的單點雜色、把灰縫往石面平均色靠攏 60%，並疊上一層跨越數格的平滑明暗起伏（每 3 格一個隨機明暗點內插放大），地面看起來連續、不再一格一格。翠綠草原的地面維持程式繪製的草地（跨格相連的草色斑塊），樹籬牆使用圖塊。沒有圖塊時沿用程式繪製的細節石磚。地城掉落物與介面的道具圖示使用 design/items/ 轉換的 2 倍密度圖（`src/js/pd/itemSprites.js`），入場卷以灰階圖依等級上色，家園材料掉落物沿用家園圖示。一般怪物使用高密度的 4 格動作圖（由 design/monsters/ 的原創設計圖轉換，存在 `src/js/pd/monsterSprites.js`，顯示密度與角色相同，腳對齊影子中心）：待機圖高度依體型分為小 28、中 34（與角色等高）、大 40、巨 46（雪怪）圖像素；4 格為待機 A、待機 B（平常每 0.4 秒交替）、蓄力（預警、衝刺蓄力、瞄準、施法、鑽地前）、出招（衝刺、俯衝中，或離開蓄力、射出投射物後 0.3 秒），面向玩家時左右翻轉；菁英、分裂小怪的縮放與半透明怪物的透明度照舊。沒有動作圖的怪物沿用手寫像素圖，在遊戲中以程式精緻化成 2 倍密度（Scale2x 補平斜邊、輪廓外框變細為 1 像素、左上提亮右下壓暗的光影）。Boss 也是高密度像素圖（由 design/bosses/ 的原創設計圖轉換，存在 `src/js/pd/bossSprites.js`，約 2.5 格高，顯示密度與角色相同，腳對齊影子中心）：4 格動作為待機 A、待機 B（平常每 0.5 秒交替）、蓄力（預警、瞄準、施法、回復中）、出招（離開蓄力或射出投射物後 0.3 秒），面向玩家時左右翻轉。角色為高密度的像素圖（角色本體約 34 格高，地城中約以 1.45 倍密度顯示、約 1.4 格高（怪物與 Boss 同比例），實際密度依畫面放大倍率取能讓每個圖像素佔整數個螢幕像素的值，例如放大 6 倍時為 1.5、7 倍時為 1.4；只影響畫面，碰撞範圍不變；家園中以 2 倍密度顯示；由原創的 4 方向攻擊動作設計圖轉換而來，存在 `src/js/pd/heroSprites.js`）。每個職業有正面（朝下）、背面（朝上）、側面（面向右，面向左時翻轉）三個方向，各 6 格（騎士 8 格）攻擊動畫，第 1 格同時是該方向的待機圖；走路為 4 格循環（每秒 8 格），參考走路動作圖由待機圖產生、沿用角色本身的造型與配色：正面與背面為左腳抬起 → 身體上浮 1 格 → 右腳抬起 → 身體上浮，側面為前後腳跨步 → 收腳上浮 → 前後交換 → 收腳上浮。介面頭像使用正面待機圖。整數倍放大且不平滑（`image-rendering: pixelated`），畫面內部解析度固定，依螢幕大小整數縮放。
 - 所有像素圖由專案自行繪製（以程式中的像素資料或專案內的 PNG 圖集），不使用外部素材；角色有待機、移動、攻擊、受傷 4 種動作，各 2～4 幀。
 - **地城場景**（2.5D 石造地城，色調取自各區域）：
   - 牆面（下方是地板的牆）上緣為牆頂石唇，下面是交錯的大磚塊，每塊磚有上左高光、下右陰影與少量裂痕，磚面顏色往該區域的牆頂色混合以保留色相；上方也是牆時，牆面往上加高半格，牆看起來更高。草原區域的牆是樹籬，改畫葉叢。
